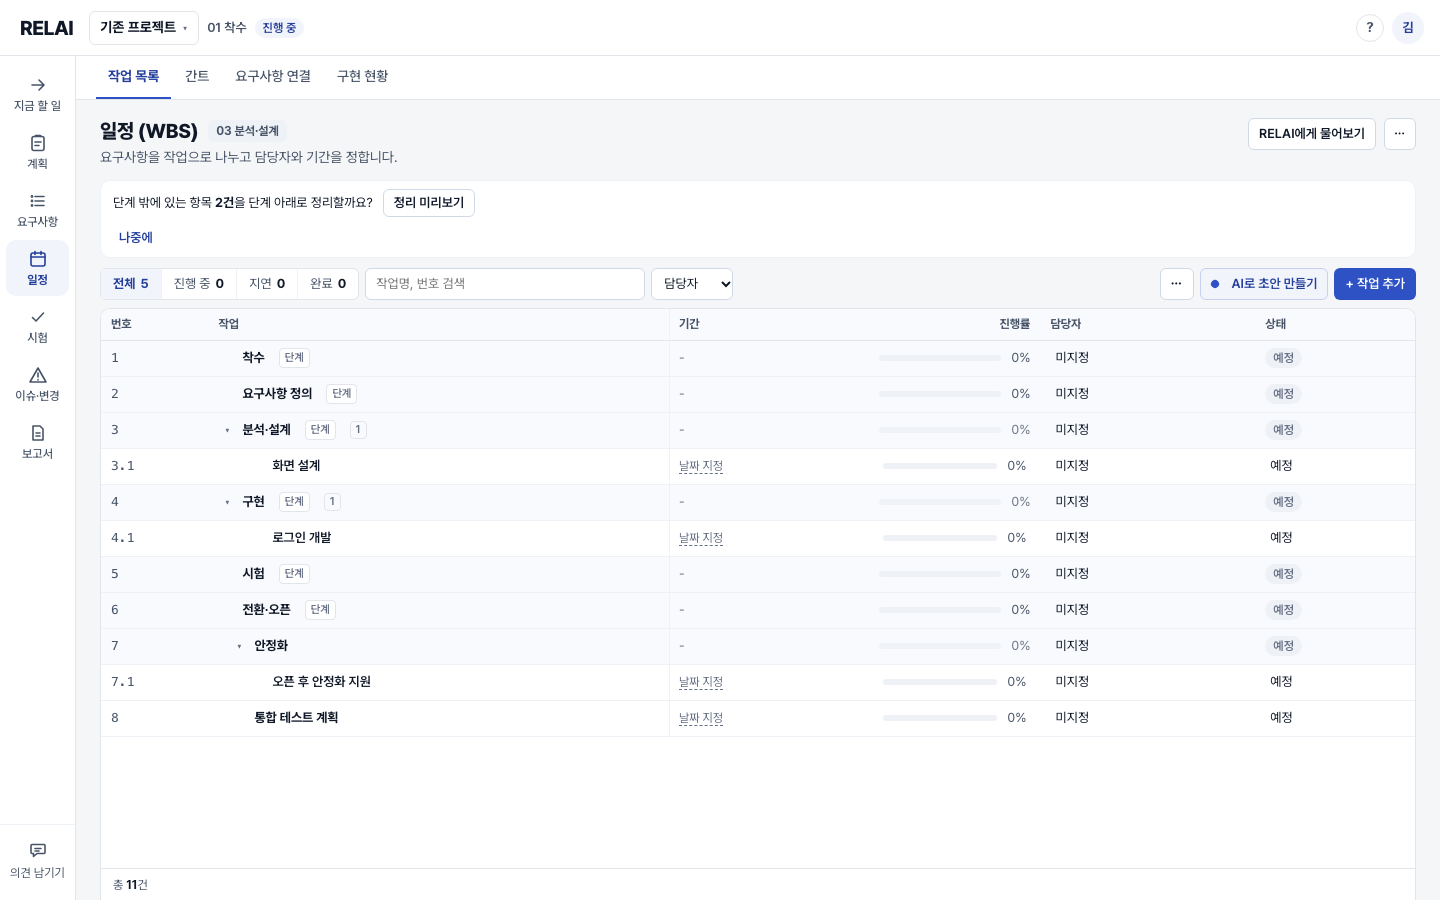
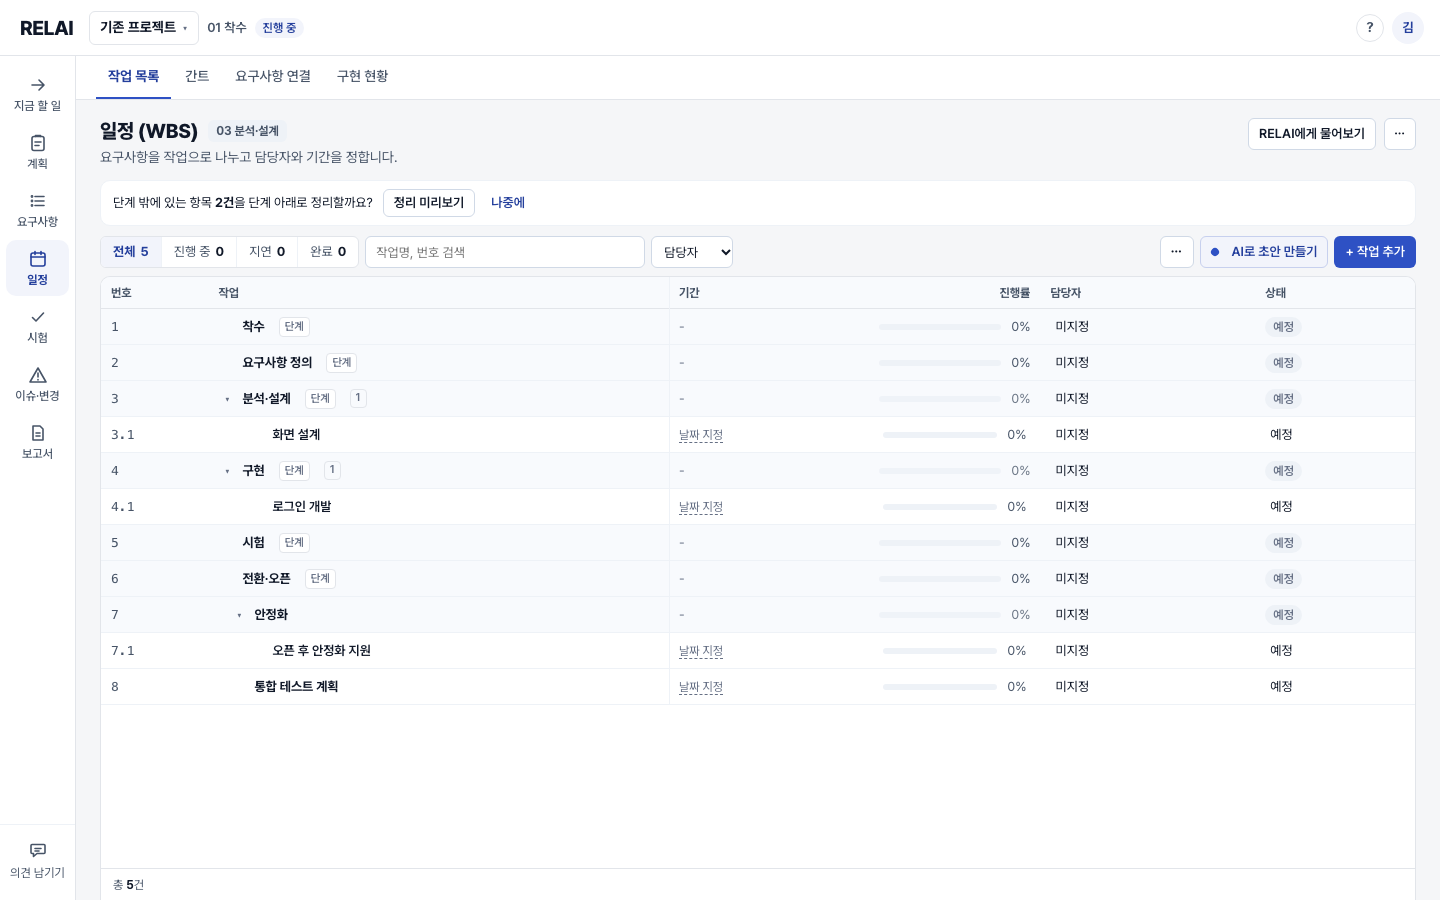
fix(b7-t3): fixed nodes kept out of 지라 EPIC links; empty WBS card carries the 데이터 이관 switch; phone/read-only empty WBS shows the card only; fresh screenshots
Claude-Session: https://claude.ai/code/session_01VqJzCEuCSSViru9udwrDEC

diff --git a/public/app/wbs/page.js b/public/app/wbs/page.js
@@ -344,7 +344,8 @@ export async function wbsPage(id) {
     return html`<div class="wempty" data-tour-id="wbs-empty"><span class="wempty__ic" aria-hidden="true">▤</span><h2>${v === 'gantt' ? lead : bodyText}</h2>
       ${raw(archived ? '' : html`<div class="wempty__a"><button class="btn btn--primary" id="skel">WBS 뼈대 만들기</button></div>
         ${raw(ghost && !hasNodes() ? html`<div class="wempty__add"><input class="input" data-ghost maxlength="200" placeholder="${ghost.item_type === 'MILESTONE' ? '마일스톤 이름 입력 후 Enter' : '작업명 입력 후 Enter · Esc 취소'}" autocomplete="off" aria-label="첫 작업 이름"></div>` : '')}
-        <p class="wempty__alt"><button type="button" class="link linkbtn" id="add2">직접 추가</button> · <button type="button" class="link linkbtn" id="xl-import2">Excel로 가져오기</button> · ${raw(ai.enabled ? '<button type="button" class="link linkbtn" id="ai-wbs2">AI 초안</button>' : '<span class="dim" title="AI 기능이 설정되지 않았습니다.">AI 초안(사용 불가)</span>')}</p>`)}</div>`;
+        <p class="wempty__alt"><button type="button" class="link linkbtn" id="add2">직접 추가</button> · <button type="button" class="link linkbtn" id="xl-import2">Excel로 가져오기</button> · ${raw(ai.enabled ? '<button type="button" class="link linkbtn" id="ai-wbs2">AI 초안</button>' : '<span class="dim" title="AI 기능이 설정되지 않았습니다.">AI 초안(사용 불가)</span>')}</p>
+        ${raw(hasNodes() ? html`<p class="wempty__alt"><label class="toggle" title="분석·설계 다음에 '데이터 이관' 단계를 둡니다. 프로젝트 특성 '데이터 이관'도 함께 바뀝니다."><input type="checkbox" id="dm-sw" ${dmNode() ? 'checked' : ''}> 데이터 이관 단계</label></p>` : '')}`)}</div>`;
   };
   /** 뼈대 확인 dialog: a short list (그룹명 + 건수) instead of a sentence; [취소] [만들기]. */
   const openSkeleton = async () => {
@@ -429,7 +430,7 @@ export async function wbsPage(id) {
     g.wbs = summary;
     // Phase 3 (US-2, J3): 0 items → the empty state only (no toolbar table, no blank row, no 총 N건). 직접 추가 opens one input inside it.
     // batch7: no user item yet → the empty card (뼈대 primary) above the fixed phase nodes
-    const body = !hasUser() ? html`${raw(emptyWbs(v))}${raw(hasNodes() && v === 'list' ? grid.html() : '')}`
+    const body = !hasUser() ? html`${raw(emptyWbs(v))}${raw(hasNodes() && v === 'list' && !archived ? grid.html() : '')}`
       : v === 'gantt' ? html`<div class="rtable-wrap wbs-wrap">${raw(rows.length ? gantt(rows) : emptyState({ title: '조건에 맞는 작업이 없습니다.', body: '보기 조건을 바꾸거나 필터를 초기화하세요.', cta: { id: 'clear2', label: '필터 초기화' }, small: true }))}</div>`
       : grid.html();
     main.innerHTML = html`<div class="page page--wide">

diff --git a/public/app/shared/jira.js b/public/app/shared/jira.js
@@ -33,7 +33,7 @@ export function jiraPaneHtml(d, it, { ro = false } = {}) {
       <div class="jsum"><div><span>하위 작업 연결 지라</span><b>${s.total}</b></div><div><span>완료</span><b>${s.done}</b></div><div><span>진행 중</span><b>${s.in_progress}</b></div><div><span>할 일</span><b>${s.todo}</b></div><div class="jsum__r"><span>지라 실행률</span><b>${s.rate === null ? '-' : s.rate + '%'}</b><small>WBS 진행률과 별개</small></div></div>
       <h4 class="dh">지라 에픽 <em>${epics.length}</em><small class="dim" style="margin-left:8px;font-weight:500;letter-spacing:0;text-transform:none">계층 연결용 · 실행률에는 포함되지 않습니다</small></h4>
       ${raw(epics.length ? html`<ol class="jlist">${raw(epics.map((l) => issueRow(l, ro)).join(''))}</ol>` : '<p class="hint">연결된 에픽이 없습니다.</p>')}
-      ${raw(ro || !m.group_issue_type_name && !epics.length ? '' : '')}${raw(ro ? '' : html`<div class="actions" style="margin-top:8px"><button type="button" class="btn btn--secondary btn--sm" data-jlink-add="EPIC">이 상위 작업을 지라 에픽과 연결</button></div>`)}
+      ${raw(ro || !m.group_issue_type_name && !epics.length ? '' : '')}${raw(ro || it.system_key ? '' : html`<div class="actions" style="margin-top:8px"><button type="button" class="btn btn--secondary btn--sm" data-jlink-add="EPIC">이 상위 작업을 지라 에픽과 연결</button></div>`)}
       <p class="hint">실행 이슈는 하위 작업에 연결합니다. 상위 작업의 진행률·상태는 기존처럼 하위 작업을 합산합니다.</p>`;
   }
   return html`${raw(head)}

diff --git a/server/integrations/jira/sync.js b/server/integrations/jira/sync.js
@@ -114,6 +114,7 @@ function assertRole(w, role) {
   if (w.item_type === 'MILESTONE') throw new ValidationError({ wbs_item_id: '마일스톤에는 지라 이슈를 연결하지 않습니다. 실제 실행 작업(하위 작업)에 연결하세요.' });
   if (role === 'EXECUTION' && w.is_group) throw new ValidationError({ wbs_item_id: '하위 작업이 있는 항목(상위 작업)에는 실행 이슈를 직접 연결하지 않습니다. 하위 작업에 연결하거나 상위 작업을 지라 에픽과 연결하세요.' });
   if (role === 'EPIC' && !w.is_group) throw new ValidationError({ wbs_item_id: '에픽 연결은 하위 작업이 있는 상위 작업에만 할 수 있습니다.' });
+  if (role === 'EPIC' && w.system_key) throw new ValidationError({ wbs_item_id: '고정 단계 항목은 에픽 연결 대상이 아닙니다. 그 아래 상위 작업을 에픽과 연결하세요.' });   // batch7 B3.2
 }
 async function requireMapping(db, project) {
   const m = await getMapping(db, project.id);

diff --git a/docs/jira-integration.md b/docs/jira-integration.md
@@ -32,7 +32,7 @@ jira_issue_snapshots(link ↔ summary/issue_type/status_id/status_name/status_ca
 integration_events(연결+payload_hash unique) · integration_sync_runs(trigger MANUAL|WEBHOOK|SCHEDULED, status, counts) · integration_webhooks(external_webhook_id, expires_at) · integration_activity(feed)
 
 ## 정책
-* 연결 대상: **Leaf TASK** (is_group=false, item_type≠MILESTONE). Group은 EPIC role만(선택), 마일스톤은 불가. SUMMARY는 enum이 아니라 is_group으로 판단.
+* 연결 대상: **Leaf TASK** (is_group=false, item_type≠MILESTONE). Group은 EPIC role만(선택), 마일스톤은 불가. SUMMARY는 enum이 아니라 is_group으로 판단. batch7: WBS 고정 최상위 단계(system_key)는 EPIC 대상에서 제외(서버 400, 화면 버튼 없음).
 * 1 Jira Issue → 1 WBS (live link partial unique). 이미 연결된 Issue는 검색 결과에 "연결됨 · WBS x.y"로 표시되고 선택 불가.
 * 실행률 = Done statusCategory / EXECUTION 링크. Group = 하위 Leaf 합(1 issue → 1 WBS이므로 자연 dedup), Epic 제외. **WBS progress/computed_status와 분리.**
 * Auto complete(매핑 옵션, 기본 OFF): Leaf TASK + EXECUTION ≥1 + 전부 Done → updateWbs(COMPLETED/100) + history JIRA_AUTO_COMPLETED(source=jira_sync). Group 미적용.
